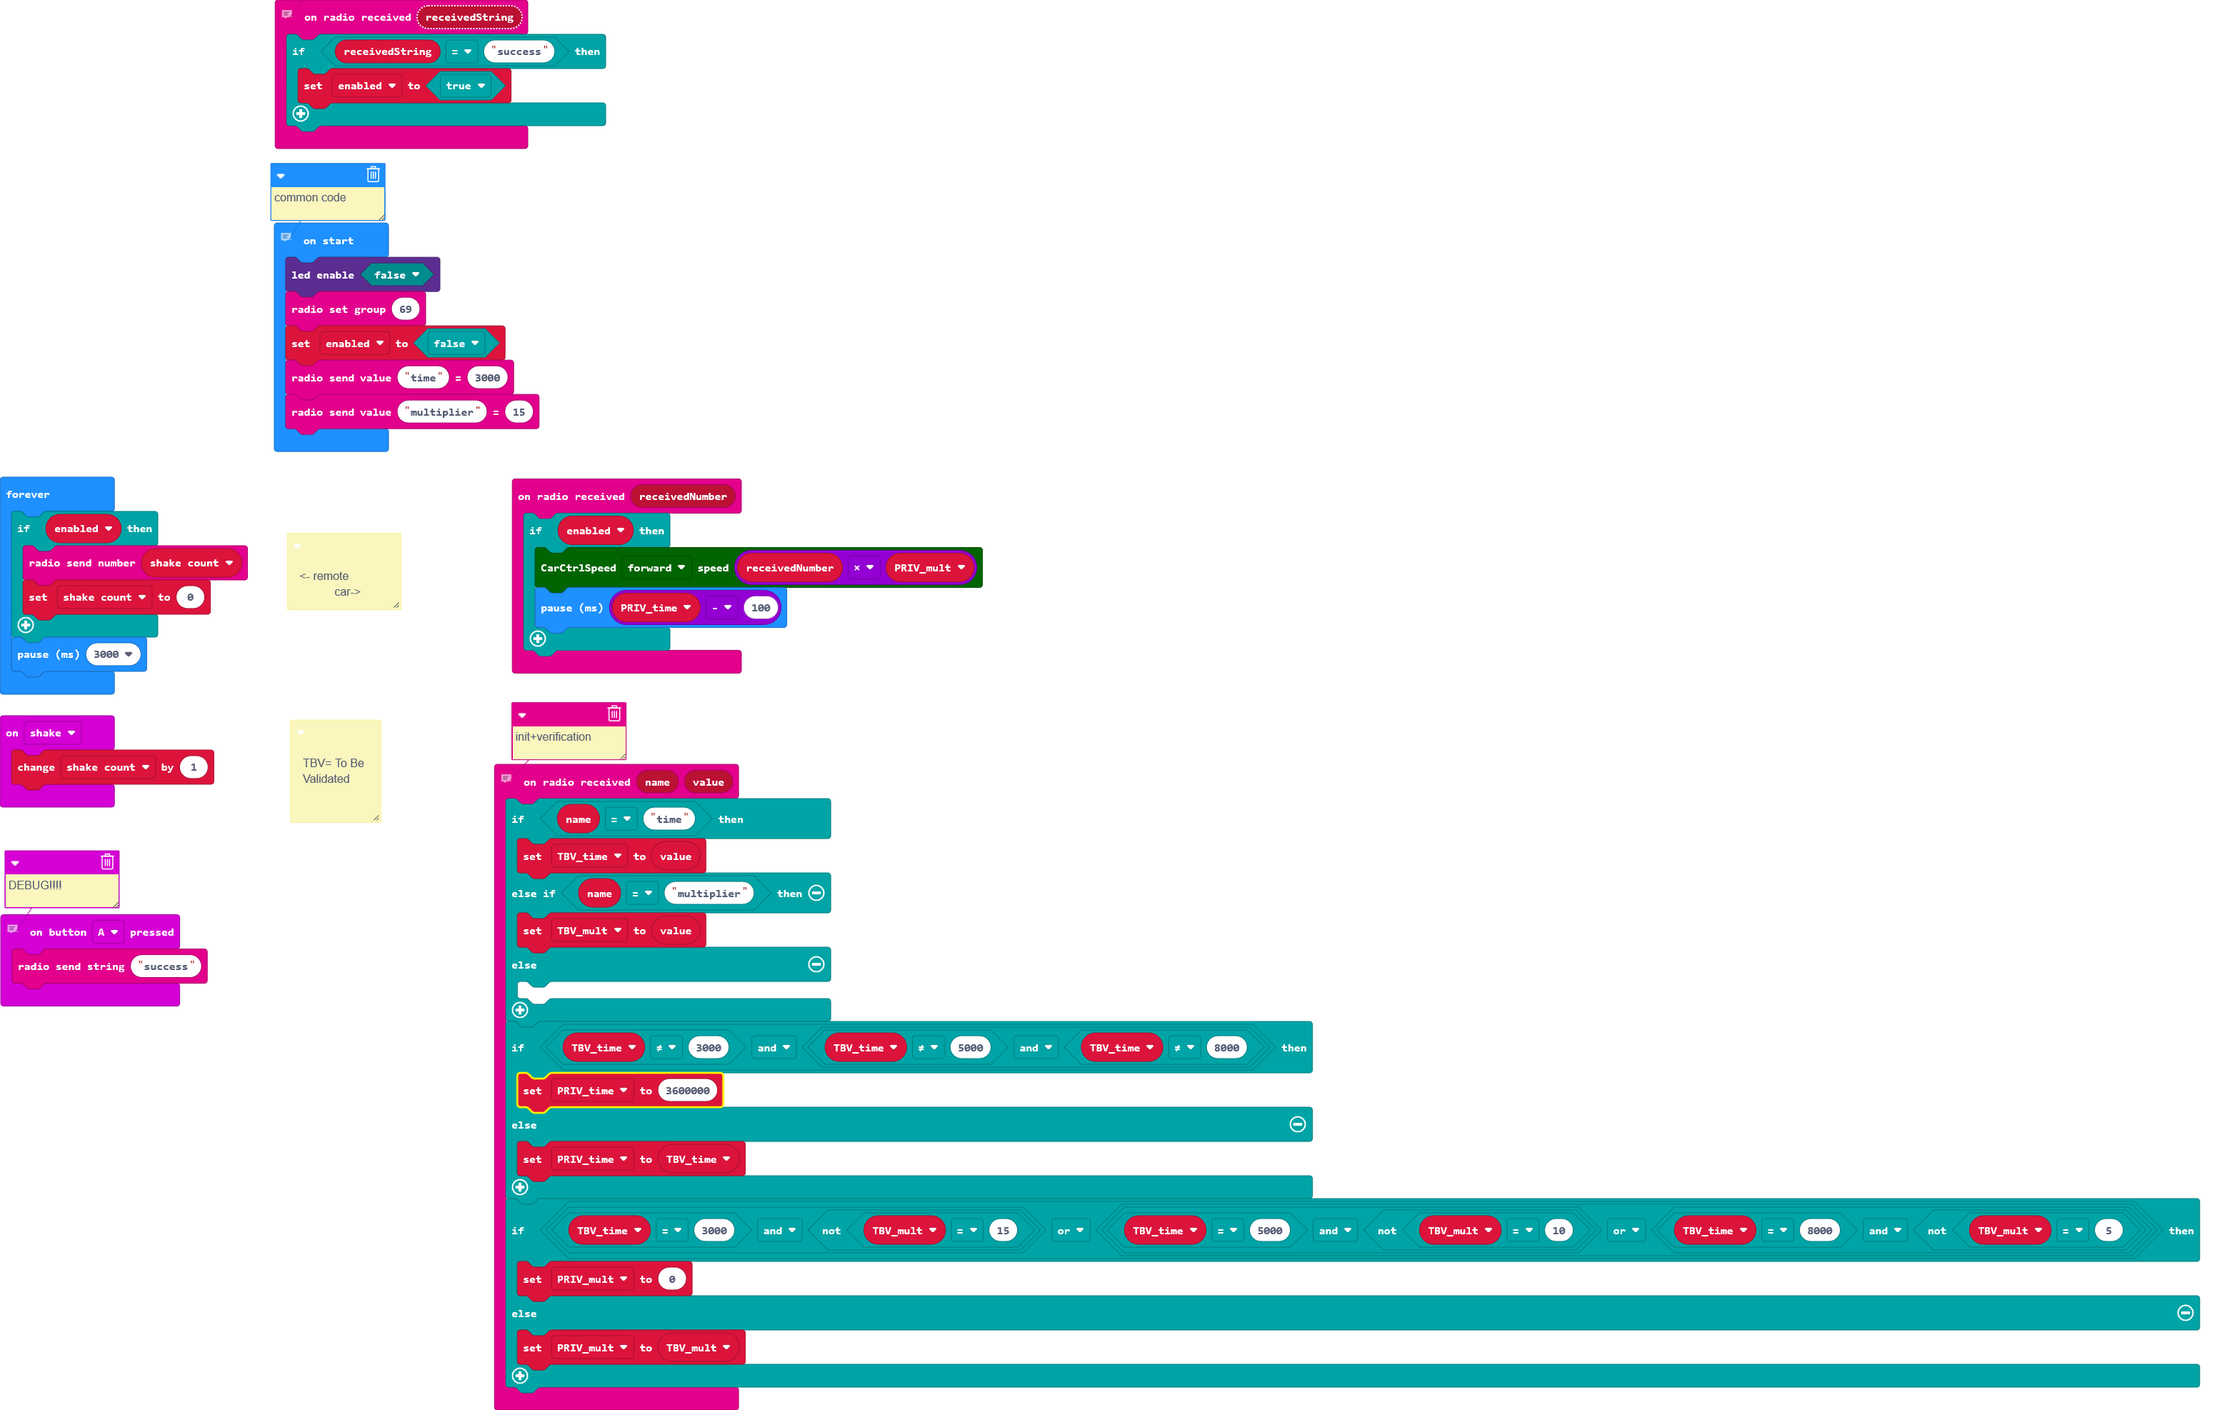
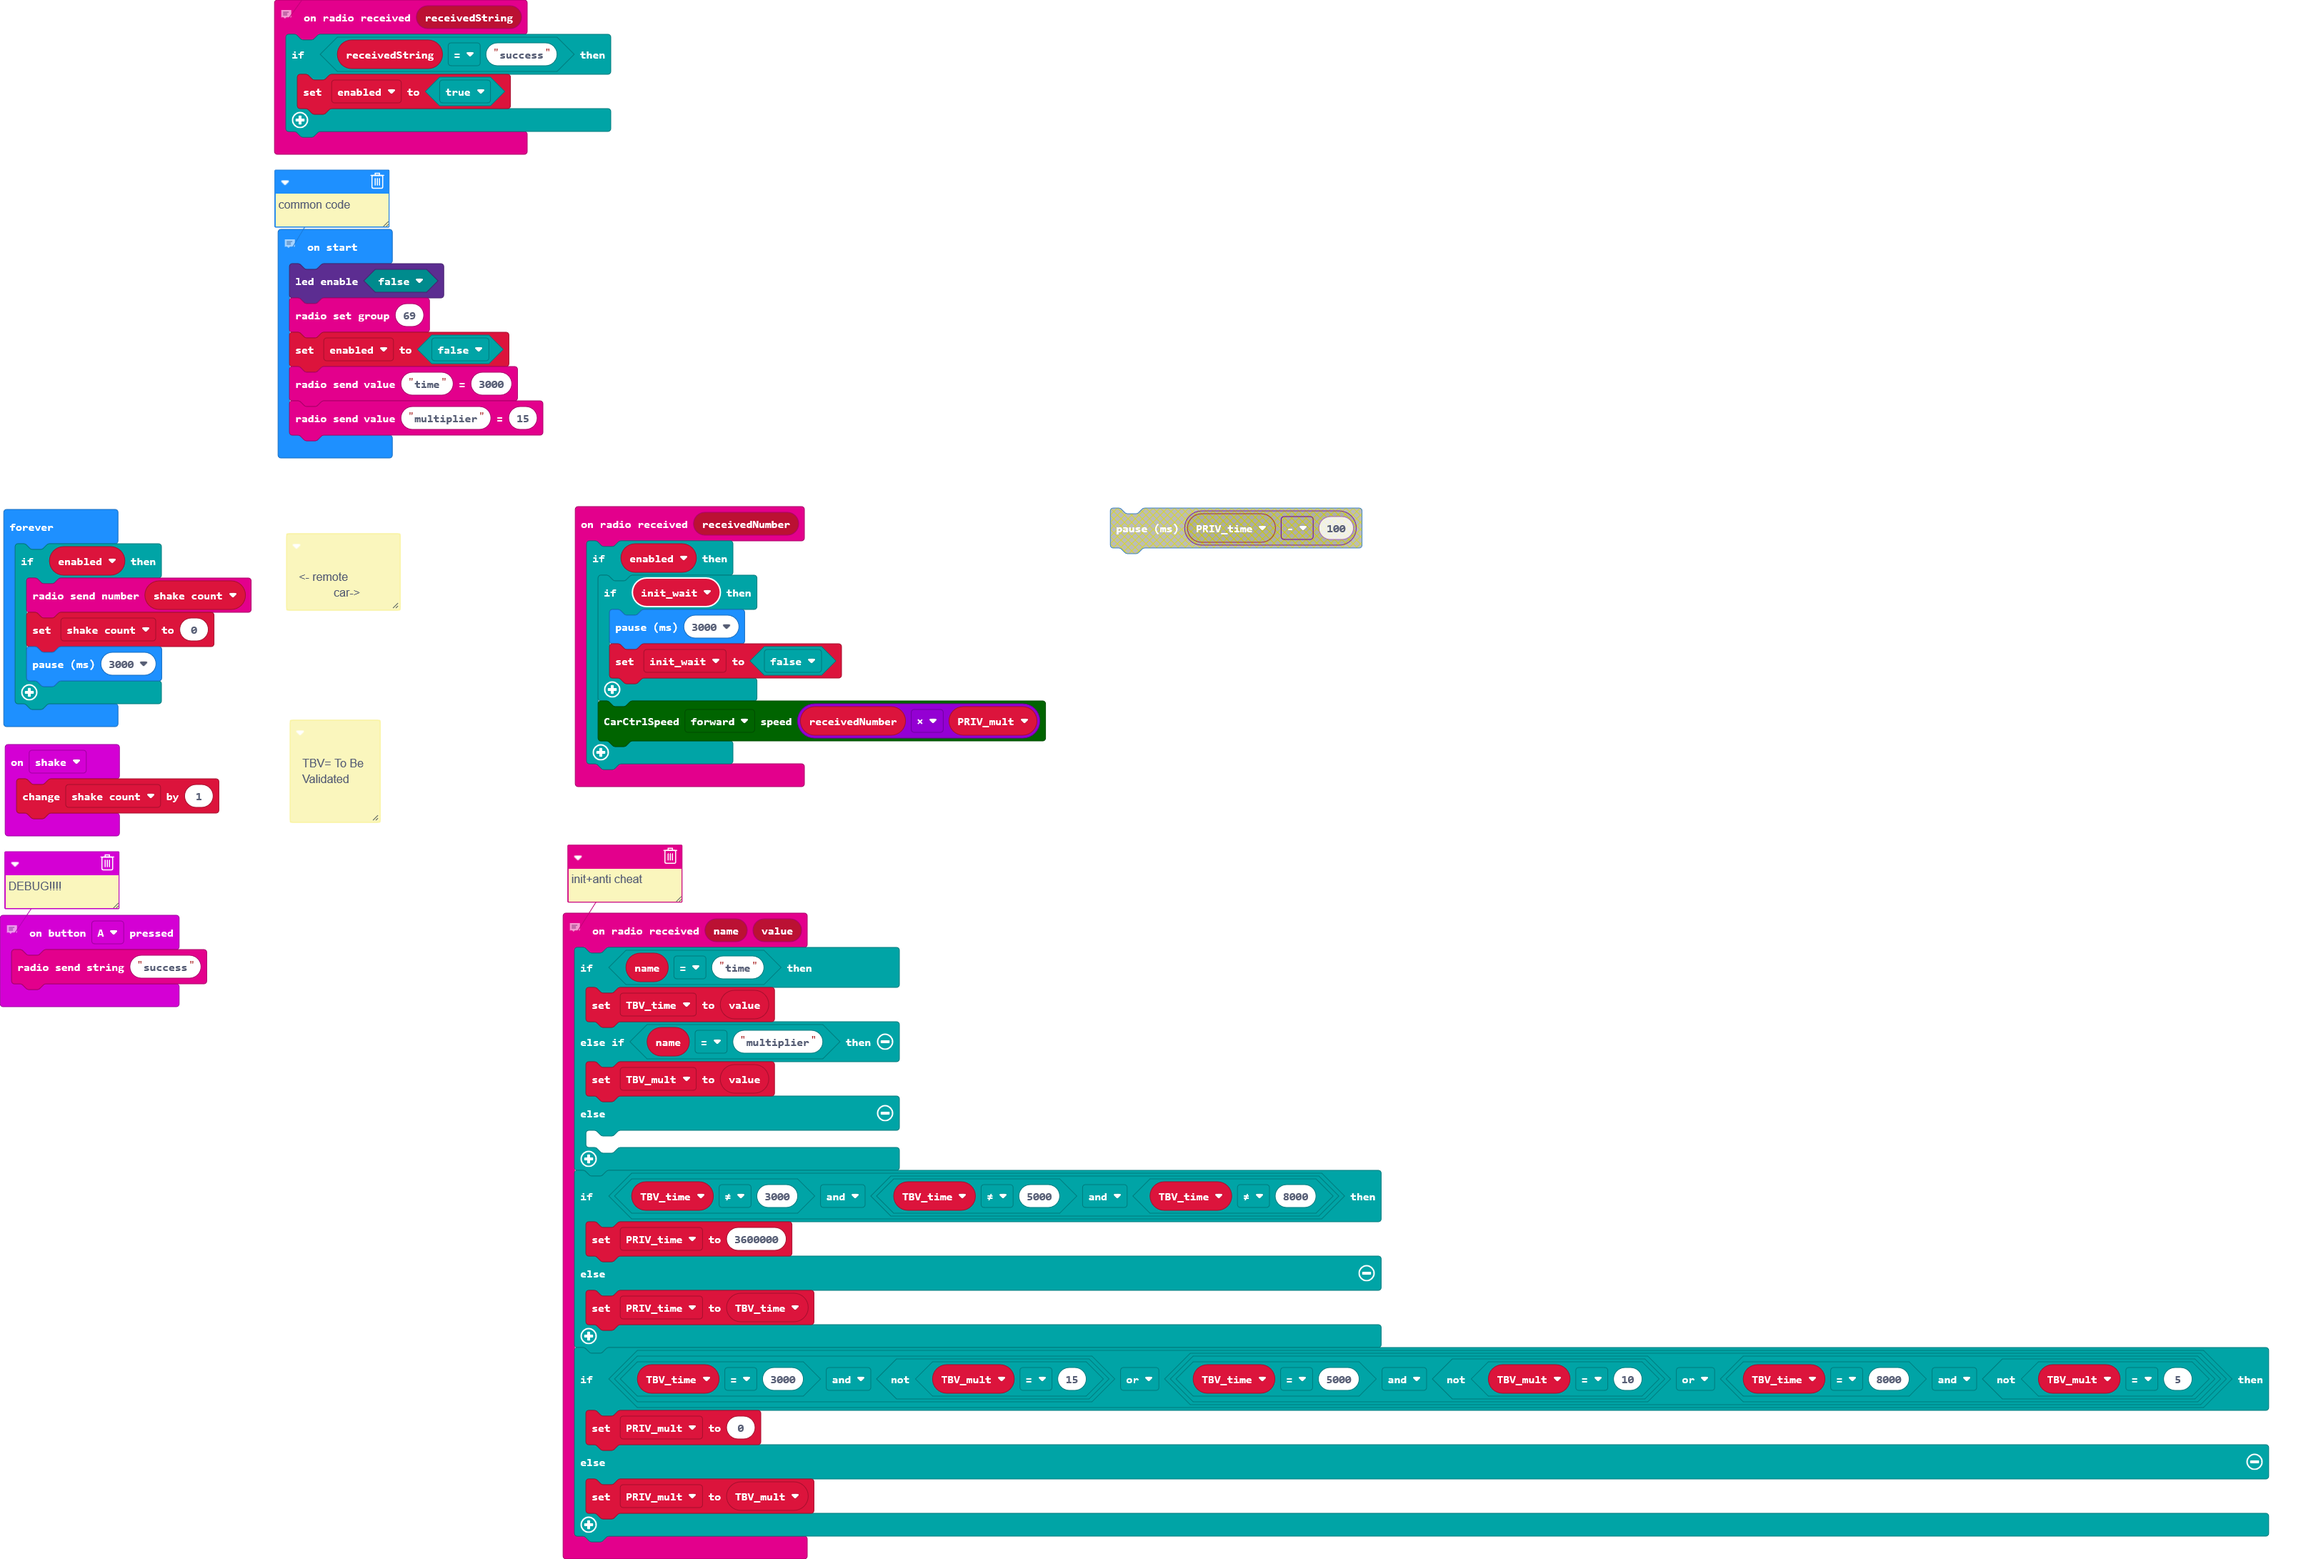
Update main.blocks, main.ts

diff --git a/main.ts b/main.ts
@@ -1,10 +1,10 @@
-/**
- * TBV= To Be Validated
- */
 radio.onReceivedNumber(function (receivedNumber) {
     if (enabled) {
+        if (init_wait) {
+            basic.pause(3000)
+            init_wait = false
+        }
         mbit_Robot.CarCtrlSpeed(mbit_Robot.CarState.Car_Run, receivedNumber * PRIV_mult)
-        basic.pause(PRIV_time - 100)
     }
 })
 // DEBUG!!!!
@@ -21,7 +21,7 @@ radio.onReceivedString(function (receivedString) {
 input.onGesture(Gesture.Shake, function () {
     shake_count += 1
 })
-// init+verification
+// init+anti cheat
 radio.onReceivedValue(function (name, value) {
     if (name == "time") {
         TBV_time = value
@@ -42,11 +42,12 @@ radio.onReceivedValue(function (name, value) {
     }
 })
 // common code
+let PRIV_time = 0
 let TBV_mult = 0
 let TBV_time = 0
 let shake_count = 0
-let PRIV_time = 0
 let PRIV_mult = 0
+let init_wait = false
 let enabled = false
 led.enable(false)
 radio.setGroup(69)
@@ -58,10 +59,13 @@ radio.sendValue("multiplier", 15)
  * 
  *            car->
  */
+/**
+ * TBV= To Be Validated
+ */
 basic.forever(function () {
     if (enabled) {
         radio.sendNumber(shake_count)
         shake_count = 0
+        basic.pause(3000)
     }
-    basic.pause(3000)
 })
